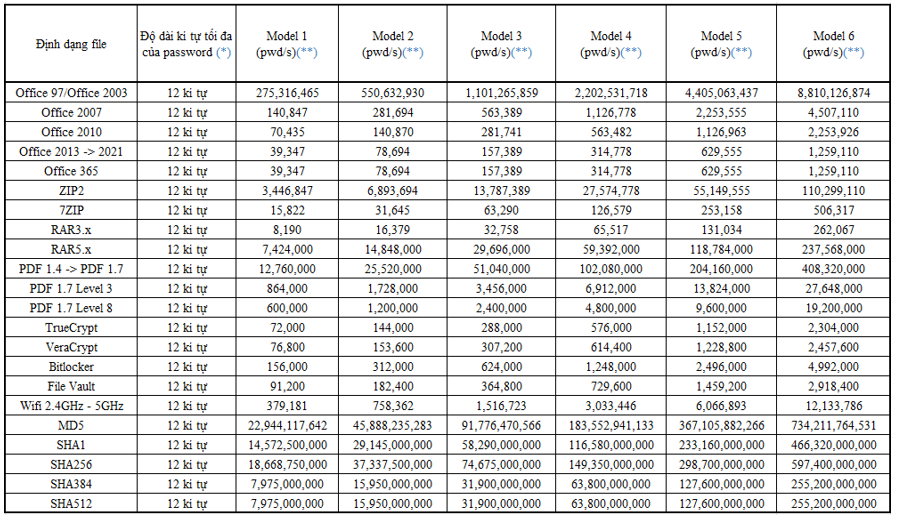
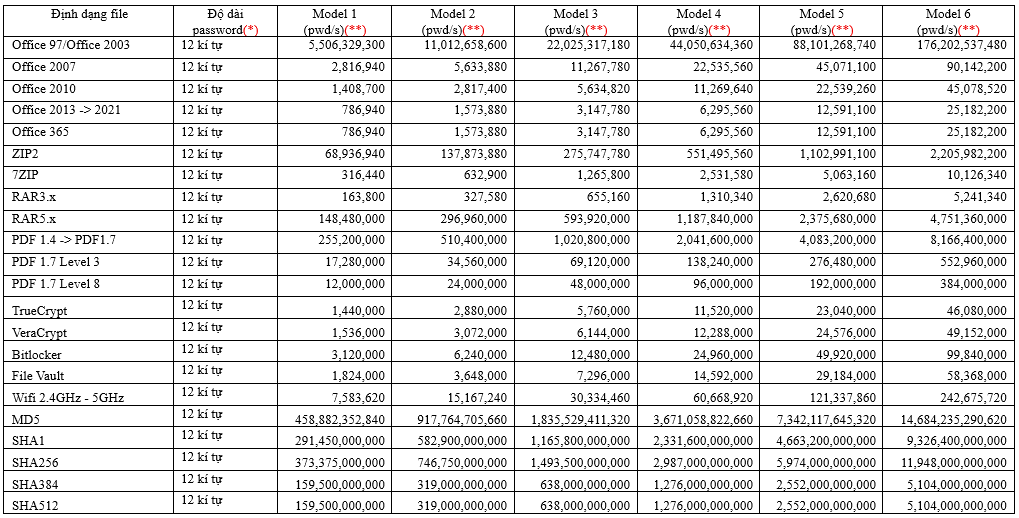
update HPC product, GUI showcase

diff --git a/src/pages/Products/HPC/HPCPlatforms.jsx b/src/pages/Products/HPC/HPCPlatforms.jsx
@@ -27,43 +27,49 @@ const HPCPlatforms = () => {
     document.title = "HPC Platforms - Acronics";
   }, []);
   const [activeTab, setActiveTab] = useState(0);
+  const [zoomed, setZoomed] = useState(false);
   // Cấu trúc dữ liệu mới: Mỗi tab đi kèm với nội dung riêng biệt
   const guiData = [
     {
       id: 0,
       label: "Processing",
       image: hpc_processing,
-      title: "High-Performance Computing Processing", // Thêm gạch nối
+      title: "High-Performance Computing processing", // Thêm gạch nối
       description: "Leverage our advanced HPC platforms for unparalleled computational power and efficiency. Designed for complex simulations, data analysis, and AI workloads."
     },
     {
       id: 1,
       label: "Information",
       image: hpc_info,
-      title: "Comprehensive Information Hub",
+      title: "Comprehensive information hub",
       description: "Access detailed information about our HPC platforms, including technical specifications, performance metrics, and use cases. Stay informed about the latest advancements in high-performance computing." // 'high-performance' viết thường trong câu.
     },
     {
       id: 2,
       label: "History",
       image: hpc_history,
-      title: "Historical Data Analysis",
+      title: "Historical data analysis",
       description: "Explore the evolution of our HPC platforms through detailed historical data and performance metrics. Understand how our solutions have advanced over time and their impact on various industries."
     },
     {
       id: 3,
       label: "Performance",
       image: hpc_performer,
-      title: "Performance Monitoring",
+      title: "Performance monitoring",
       description: "Monitor the performance of your HPC platforms in real-time with detailed metrics and analytics. Identify bottlenecks and optimize your computational workflows for maximum efficiency."
     },
     {
-      id: 4,
-      label: "Other Versions",
-      image: hpc_version,
-      title: "Version Management",
-      description: "Access and manage different versions of our HPC platforms. Stay updated with the latest features and improvements across all available releases."
-    }
+    id: 4,
+    label: "Other versions",
+    image: hpc_version,
+    title: "Version management",
+    description: "Access and manage different versions of our HPC platforms. Stay updated with the latest features and improvements across all available releases.",
+    highlights: [
+      "(*) Password generation tools are typically limited to a maximum of 12 characters; however, PWR supports longer password lengths, thereby enhancing its capability to recover passwords beyond this limitation.",
+      "(**) FPGA cluster architectures allow leveraging the potential of FPGA parallelism. Processing performance can increase by approximately 3–5 times depending on the FPGA hardware architecture (board capability), and can be further enhanced by using larger FPGA cluster configurations. The prototype architectures have versions from 1 to 6, with a significant increase in the number of usable FPGA clusters, from 16 to 512 clusters.",
+      "System performance can be dynamically adjusted based on the operating temperature and environmental conditions of the clusters. This adaptive mechanism helps prevent hardware failure and ensures stable operation during the password recovery process."
+    ]
+  }
   ];
 
   return (
@@ -112,20 +118,20 @@ const HPCPlatforms = () => {
 
             {/* CỘT TRÁI: NỘI DUNG CHỮ */}
             <div className={styles.techContent}>
-              <h2 className={styles.sectionTitle}>Our New HPC Technologies</h2>
+              <h2 className={styles.sectionTitle}>Our new HPC technologies</h2>
 
               {/* <h3 className={styles.sectionSubtitle}>
                 AI-Based Network Security and Hardware Protection Solutions by Acronics Solutions (ACS)
               </h3> */}
               <p className={styles.sectionSubtitle}>
-                AI-Based Network Security and Hardware Protection Solutions by Acronics Solutions (ACS)
+                AI-based network security and hardware protection solutions by Acronics Solutions (ACS)
               </p>
 
               {/* Danh sách công nghệ */}
               <ul className={styles.techList}>
                 <li>DDoS Detection: Random Forest (RamFor Core)</li>
-                <li>Malware Detection: Convolutional Neural Network (CNN)</li>
-                <li>Abnormal Behavior Detection: Support Vector Machine (SVM)</li>
+                <li>Malware Detection: Convolutional Neural Network (CNN Core)</li>
+                <li>Abnormal Behavior Detection: Support Vector Machine (SVM Core)</li>
               </ul>
 
               {/* Đoạn văn 1 */}
@@ -162,33 +168,58 @@ const HPCPlatforms = () => {
                     key={tab.id}
                     onClick={() => setActiveTab(tab.id)}
                     className={`${styles.tabButton} ${activeTab === tab.id ? styles.activeTab : ''}`}
+                    style={activeTab === tab.id ? { fontWeight: 700, fontSize: '1.1rem', letterSpacing: '0.5px' } : {}}
                   >
-                    [{tab.label}]
+                    {tab.label}
                   </button>
                 ))}
               </div>
 
-              {/* Ảnh thay đổi theo activeTab kèm hiệu ứng fade-in đơn giản */}
+              {/* Ảnh thay đổi theo activeTab, click để zoom */}
               <div className={styles.tabContent} key={activeTab}>
                 <img
                   src={guiData[activeTab].image}
                   alt={guiData[activeTab].label}
                   className={styles.guiImage}
+                  style={{ cursor: 'zoom-in' }}
+                  onClick={() => setZoomed(true)}
                 />
+                {/* Overlay zoom */}
+                {zoomed && (
+                  <div className={styles.zoomOverlay} onClick={() => setZoomed(false)}>
+                    <img
+                      src={guiData[activeTab].image}
+                      alt={guiData[activeTab].label}
+                      className={styles.zoomedImage}
+                      onClick={e => e.stopPropagation()}
+                    />
+                  </div>
+                )}
               </div>
             </div>
 
-            {/* KHỐI PHẢI: NỘI DUNG THAY ĐỔI THEO TAB */}
             <div className={styles.guiInfo} key={`info-${activeTab}`}>
-                <h3 className={styles.guiInfoTitle}>{guiData[activeTab].title}</h3>
-                <p className={styles.text}>
-                  {guiData[activeTab].description}
-                </p>
-            </div>
+  <h3 className={styles.guiInfoTitle}>{guiData[activeTab].title}</h3>
+  
+  <p className={styles.descriptionText}>
+    {guiData[activeTab].description}
+  </p>
+
+  {/* Hiển thị các ý chính dưới dạng danh sách chuyên nghiệp */}
+  {guiData[activeTab].highlights && (
+    <ul className={styles.highlightList}>
+      {guiData[activeTab].highlights.map((item, index) => (
+        <li key={index} className={styles.highlightItem}>
+          <span className={styles.bullet}>•</span> {item}
+        </li>
+      ))}
+    </ul>
+  )}
+</div>
           </div>
         </div>
       </section>
-      {/* 5. Video showcase */}
+      {/* 5. Video showcase
       <section className={styles.videoShowcaseSection}>
         <div className={styles.container}>
           <VideoShowcase
@@ -201,7 +232,7 @@ const HPCPlatforms = () => {
             title="Demo of network traffic malware detection scenarios using ML/DL on SoC-FPGA"
           />
         </div>
-      </section>
+      </section> */}
     </div>
   );
 }

diff --git a/src/pages/Products/HPC/HPCPlatforms.module.css b/src/pages/Products/HPC/HPCPlatforms.module.css
@@ -199,9 +199,51 @@
 }
 
 .activeTab {
-    color: var(--primary-color) !important;
-    background-color: #eef6ff; /* Màu nền xanh nhạt khi được chọn */
-    border-radius: 6px;
+  color: var(--primary-color) !important;
+  background-color: #eef6ff;
+  border-radius: 6px;
+  font-weight: 700;
+  font-size: 1.1rem;
+  box-shadow: 0 2px 8px rgba(0, 0, 0, 0.06);
+  letter-spacing: 0.5px;
+  border: 1.5px solid var(--primary-color);
+}
+.zoomOverlay {
+  position: fixed;
+  top: 0;
+  left: 0;
+  width: 100vw;
+  height: 100vh;
+  background: rgba(0,0,0,0.6);
+  display: flex;
+  align-items: center;
+  justify-content: center;
+  z-index: 9999;
+}
+
+.zoomedImage {
+  max-width: 90vw;
+  max-height: 90vh;
+  border-radius: 16px;
+  box-shadow: 0 8px 32px rgba(0,0,0,0.25);
+  background: #fff;
+}
+
+.versionNote {
+  margin-top: 18px;
+  background: #f5f5f5;
+  border-left: 4px solid var(--primary-color);
+  padding: 12px 18px;
+  font-size: 0.97rem;
+  color: #333;
+  border-radius: 8px;
+}
+.versionNote ul {
+  margin: 0;
+  padding-left: 18px;
+}
+.versionNote li {
+  margin-bottom: 6px;
 }
 
 .tabContent {
@@ -232,6 +274,37 @@
     font-weight: var(--fw-light);
     line-height: 1.6;
 }
+
+/*------------------*/
+/* Trong file HPCPlatforms.module.css */
+
+.descriptionText {
+  margin-bottom: 20px;
+  line-height: 1.6;
+  color: #444;
+}
+
+.highlightList {
+  list-style: none;
+  padding: 0;
+  margin: 0;
+}
+
+.highlightItem {
+  display: flex;
+  align-items: flex-start;
+  margin-bottom: 12px;
+  font-size: 0.95rem;
+  line-height: 1.5;
+  color: #333;
+}
+
+.bullet {
+  color: #007bff; /* Hoặc màu chủ đạo của Acronics */
+  font-weight: bold;
+  margin-right: 10px;
+}
+/*----------------*/
 
 /* --- Responsive Update --- */
 @media (max-width: 992px) {

diff --git a/src/components/Layout/Header/Header.jsx b/src/components/Layout/Header/Header.jsx
@@ -83,7 +83,7 @@ const Header = () => {
                   Cryptography
                 </span>
                 <div className={`${styles.subDropdownMenu} ${activeSubDropdown === 'cryptography' ? styles.showSubMobile : ''}`}>
-                  <Link to="/products/cryptography" className={styles.dropdownItem} onClick={toggleMenu}>SCADA</Link>
+                  <Link to="/products/cryptography" className={styles.dropdownItem} onClick={toggleMenu}>SCADA Firewall</Link>
                   <Link to="/products/firewall" className={styles.dropdownItem} onClick={toggleMenu}>AI-based malware identification</Link>
                 </div>
               </div>
